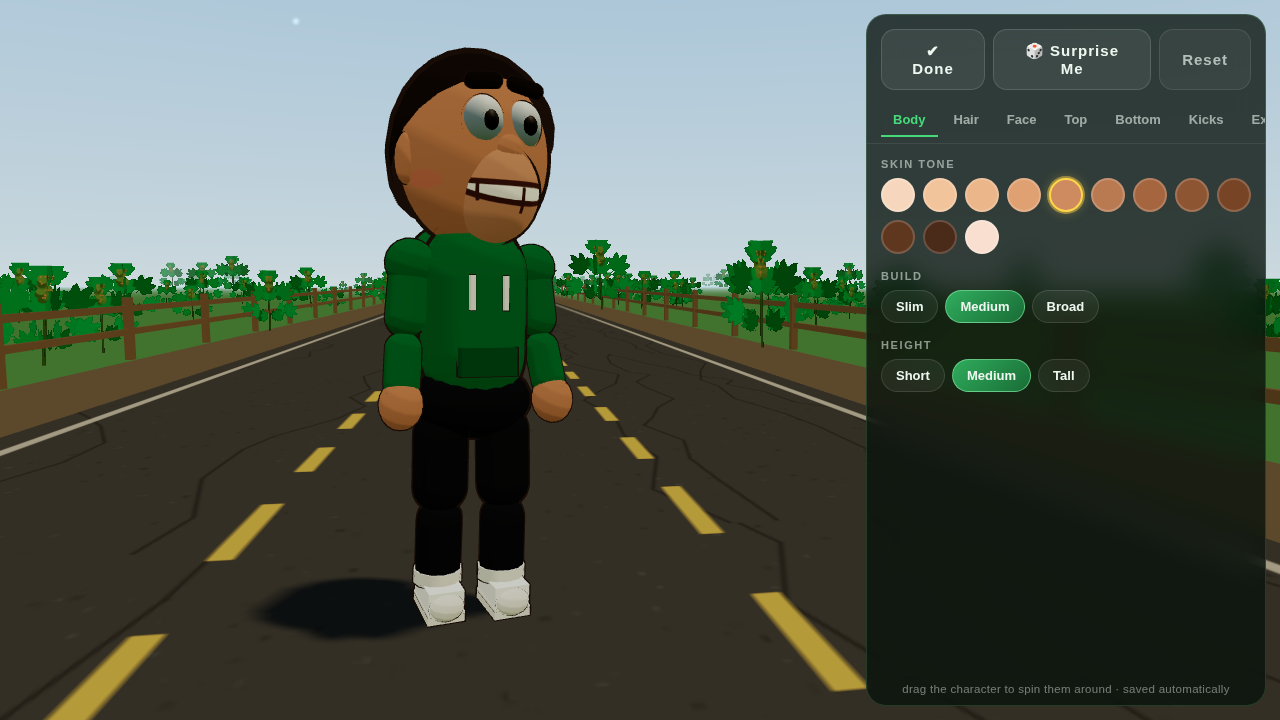
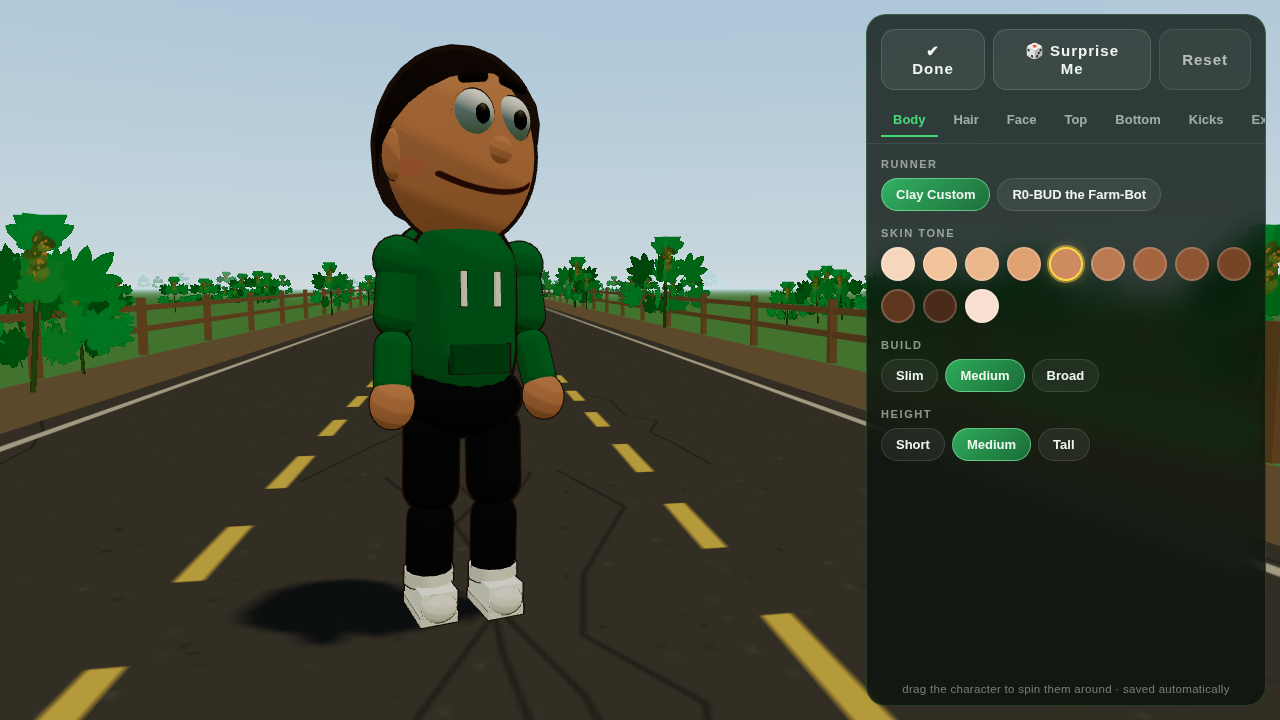
Flatten the clay face: mouth painted on the face plane, no snout
The protruding two-tone muzzle made characters read as an animal rather
than a person. The mouth (all five styles + dizzy) now paints directly
onto the head texture with normal/dizzy variants swapped in setFace;
facial hair and nose re-anchored to the flat face; blush and freckles
moved clear of the mouth; friendlier soft-brow smile as the default look.

Claude-Session: https://claude.ai/code/session_01EjCoRWgHt2VoYrPWndfxam

diff --git a/js/avatar.js b/js/avatar.js
@@ -57,10 +57,10 @@
   }
 
   /* -------------------------------------------------- head painting
-     Claymation-style: eyes and brows are 3D geometry. The head texture only
-     carries skin, cheeks and freckles; the muzzle texture carries the big
-     molded mouth. Both spheres are rotated so canvas-center faces -Z. */
-  function paintHeadTex(cfg) {
+     Claymation-style: eyes and brows are 3D geometry. The mouth is painted
+     flat on the face plane (no snout — a protruding muzzle reads as an
+     animal, not a person). Head sphere is rotated so canvas-center → -Z. */
+  function paintHeadTex(cfg, variant) {
     const S = 512;
     const { canvas, ctx } = GR.makeCanvas(S, S);
     ctx.fillStyle = cfg.skin;
@@ -70,103 +70,92 @@
       ctx.fillStyle = 'rgba(235,120,110,0.35)';
       for (const s of [-1, 1]) {
         ctx.beginPath();
-        ctx.ellipse(cx + s * 98, 308, 26, 16, 0, 0, GR.TAU);
+        ctx.ellipse(cx + s * 106, 296, 24, 15, 0, 0, GR.TAU);
         ctx.fill();
       }
     }
     if (cfg.freckles) {
       ctx.fillStyle = 'rgba(90,50,30,0.5)';
-      const spots = [[-84, 296], [-64, 308], [-98, 316], [84, 298], [66, 310], [100, 314], [-74, 322], [78, 324]];
+      const spots = [[-86, 272], [-66, 282], [-100, 288], [86, 274], [68, 284], [102, 288], [-76, 264], [78, 262]];
       for (const [dx, dy] of spots) {
         ctx.beginPath();
         ctx.arc(cx + dx, dy, 4, 0, GR.TAU);
         ctx.fill();
       }
     }
-    const tex = new THREE.CanvasTexture(canvas);
-    tex.colorSpace = THREE.SRGBColorSpace;
-    tex.anisotropy = 4;
-    return tex;
-  }
 
-  /* huge cheek-to-cheek molded mouth on the muzzle ball */
-  function paintMuzzleTex(cfg, variant) {
-    const S = 256;
-    const { canvas, ctx } = GR.makeCanvas(S, S);
-    ctx.fillStyle = shade(cfg.skin, 0.09);
-    ctx.fillRect(0, 0, S, S);
-    const cx = 128, cy = 118;
+    /* the big molded mouth, flat on the face */
+    const cy = 318;
     const lineCol = '#5a2f24';
     ctx.strokeStyle = lineCol;
     ctx.lineCap = 'round';
     const mouth = variant === 'dizzy' ? 'dizzy' : cfg.mouth;
     if (mouth === 'grin') {
-      // the trademark enormous clay grin, teeth and all
       ctx.beginPath();
-      ctx.moveTo(cx - 88, cy - 16);
-      ctx.quadraticCurveTo(cx, cy + 78, cx + 88, cy - 16);
-      ctx.quadraticCurveTo(cx, cy + 18, cx - 88, cy - 16);
+      ctx.moveTo(cx - 80, cy - 14);
+      ctx.quadraticCurveTo(cx, cy + 66, cx + 80, cy - 14);
+      ctx.quadraticCurveTo(cx, cy + 16, cx - 80, cy - 14);
       ctx.closePath();
       ctx.fillStyle = '#fdf8ee';
       ctx.fill();
-      ctx.lineWidth = 9;
+      ctx.lineWidth = 8;
       ctx.stroke();
-      // tooth seams
       ctx.lineWidth = 4;
-      for (const dx of [-44, 0, 44]) {
+      for (const dx of [-40, 0, 40]) {
         ctx.beginPath();
-        ctx.moveTo(cx + dx, cy + (dx === 0 ? 8 : -2));
-        ctx.lineTo(cx + dx, cy + (dx === 0 ? 46 : 26));
+        ctx.moveTo(cx + dx, cy + (dx === 0 ? 7 : -3));
+        ctx.lineTo(cx + dx, cy + (dx === 0 ? 40 : 22));
         ctx.stroke();
       }
     } else if (mouth === 'smile') {
-      ctx.lineWidth = 11;
+      ctx.lineWidth = 10;
       ctx.beginPath();
-      ctx.moveTo(cx - 74, cy - 8);
-      ctx.quadraticCurveTo(cx, cy + 52, cx + 74, cy - 8);
+      ctx.moveTo(cx - 66, cy - 8);
+      ctx.quadraticCurveTo(cx, cy + 44, cx + 66, cy - 8);
       ctx.stroke();
     } else if (mouth === 'smirk') {
-      ctx.lineWidth = 11;
+      ctx.lineWidth = 10;
       ctx.beginPath();
-      ctx.moveTo(cx - 40, cy + 12);
-      ctx.quadraticCurveTo(cx + 30, cy + 34, cx + 74, cy - 14);
+      ctx.moveTo(cx - 36, cy + 10);
+      ctx.quadraticCurveTo(cx + 26, cy + 30, cx + 66, cy - 12);
       ctx.stroke();
     } else if (mouth === 'open') {
       ctx.fillStyle = '#54231c';
       ctx.beginPath();
-      ctx.ellipse(cx, cy + 12, 52, 40, 0, 0, GR.TAU);
+      ctx.ellipse(cx, cy + 8, 46, 34, 0, 0, GR.TAU);
       ctx.fill();
-      ctx.lineWidth = 8;
+      ctx.lineWidth = 7;
       ctx.stroke();
       ctx.fillStyle = '#e0697a';
       ctx.beginPath();
-      ctx.ellipse(cx, cy + 32, 28, 15, 0, 0, GR.TAU);
+      ctx.ellipse(cx, cy + 26, 25, 13, 0, 0, GR.TAU);
       ctx.fill();
       ctx.fillStyle = '#fdf8ee';
-      ctx.fillRect(cx - 34, cy - 24, 68, 14);
+      ctx.fillRect(cx - 30, cy - 22, 60, 12);
     } else if (mouth === 'tongue') {
-      ctx.lineWidth = 11;
+      ctx.lineWidth = 10;
       ctx.beginPath();
-      ctx.moveTo(cx - 66, cy - 6);
-      ctx.quadraticCurveTo(cx, cy + 46, cx + 66, cy - 6);
+      ctx.moveTo(cx - 60, cy - 6);
+      ctx.quadraticCurveTo(cx, cy + 40, cx + 60, cy - 6);
       ctx.stroke();
       ctx.fillStyle = '#e0697a';
       ctx.beginPath();
-      ctx.ellipse(cx + 26, cy + 34, 22, 26, 0.25, 0, GR.TAU);
+      ctx.ellipse(cx + 24, cy + 28, 20, 24, 0.25, 0, GR.TAU);
       ctx.fill();
       ctx.strokeStyle = '#b04a5c';
       ctx.lineWidth = 4;
       ctx.beginPath();
-      ctx.moveTo(cx + 22, cy + 18);
-      ctx.lineTo(cx + 32, cy + 50);
+      ctx.moveTo(cx + 20, cy + 14);
+      ctx.lineTo(cx + 30, cy + 44);
       ctx.stroke();
     } else {
       // dizzy: wobbly little 'o'
-      ctx.lineWidth = 9;
+      ctx.lineWidth = 8;
       ctx.beginPath();
-      ctx.ellipse(cx, cy + 10, 22, 28, 0.15, 0, GR.TAU);
+      ctx.ellipse(cx, cy + 8, 20, 25, 0.15, 0, GR.TAU);
       ctx.stroke();
     }
+
     const tex = new THREE.CanvasTexture(canvas);
     tex.colorSpace = THREE.SRGBColorSpace;
     tex.anisotropy = 4;
@@ -574,21 +563,14 @@
     neck.add(headGrp);
 
     // no bump on the face — it fights the toon steps and looks patchy
-    const headMat = track(GR.toonMat({ map: track(paintHeadTex(cfg)) }));
+    const headTex = {
+      normal: track(paintHeadTex(cfg, 'normal')),
+      dizzy: track(paintHeadTex(cfg, 'dizzy')),
+    };
+    const headMat = track(GR.toonMat({ map: headTex.normal }));
     const head = mesh(track(new THREE.SphereGeometry(R, 32, 24)), headMat, 0, 0, 0);
     head.rotation.y = Math.PI / 2; // texture center → -Z
     headGrp.add(head);
-
-    /* muzzle — the protruding lower-face mass that carries the big mouth */
-    const muzzleTex = {
-      normal: track(paintMuzzleTex(cfg, 'normal')),
-      dizzy: track(paintMuzzleTex(cfg, 'dizzy')),
-    };
-    const muzzleMat = track(GR.toonMat({ map: muzzleTex.normal }));
-    const muzzle = mesh(track(new THREE.SphereGeometry(R * 0.62, 24, 18)), muzzleMat, 0, -R * 0.42, -R * 0.6);
-    muzzle.rotation.y = Math.PI / 2;
-    muzzle.scale.set(1.28, 0.85, 0.8);
-    headGrp.add(muzzle);
 
     /* googly clay eyes: big close-set white balls, proud of the face */
     const eyeWhiteMat = track(new THREE.MeshStandardMaterial({ color: 0xfdfaf2, roughness: 0.55 }));
@@ -640,7 +622,7 @@
       ear.scale.set(0.5, 1.05, 0.85);
       headGrp.add(ear);
     }
-    const nose = mesh(track(new THREE.SphereGeometry(R * 0.17, 14, 12)), skinMat, 0, R * 0.02, -R * 1.0);
+    const nose = mesh(track(new THREE.SphereGeometry(R * 0.16, 14, 12)), skinMat, 0, -R * 0.05, -R * 1.0);
     nose.scale.set(1, 0.9, 0.95);
     headGrp.add(nose);
 
@@ -648,21 +630,21 @@
     const fhMat = track(clayMat(cfg.hairColor));
     if (cfg.facialHair === 'mustache') {
       for (const sx of [-1, 1]) {
-        const mo = mesh(track(new THREE.SphereGeometry(R * 0.24, 12, 8)), fhMat, sx * R * 0.22, -R * 0.2, -R * 1.04);
-        mo.scale.set(1.25, 0.42, 0.45);
+        const mo = mesh(track(new THREE.SphereGeometry(R * 0.22, 12, 8)), fhMat, sx * R * 0.2, -R * 0.22, -R * 0.94);
+        mo.scale.set(1.25, 0.4, 0.42);
         mo.rotation.z = sx * -0.25;
         headGrp.add(mo);
       }
     } else if (cfg.facialHair === 'goatee') {
-      const gt = mesh(track(new THREE.SphereGeometry(R * 0.28, 12, 8)), fhMat, 0, -R * 0.86, -R * 0.66);
-      gt.scale.set(0.95, 0.9, 0.6);
+      const gt = mesh(track(new THREE.SphereGeometry(R * 0.26, 12, 8)), fhMat, 0, -R * 0.7, -R * 0.66);
+      gt.scale.set(0.95, 0.85, 0.55);
       headGrp.add(gt);
     } else if (cfg.facialHair === 'beard') {
-      const chin = mesh(track(new THREE.SphereGeometry(R * 0.46, 14, 10)), fhMat, 0, -R * 0.84, -R * 0.36);
-      chin.scale.set(1.4, 0.75, 0.95);
+      const chin = mesh(track(new THREE.SphereGeometry(R * 0.44, 14, 10)), fhMat, 0, -R * 0.7, -R * 0.32);
+      chin.scale.set(1.35, 0.7, 0.95);
       headGrp.add(chin);
       for (const sx of [-1, 1]) {
-        const jaw = mesh(track(new THREE.SphereGeometry(R * 0.32, 12, 8)), fhMat, sx * R * 0.68, -R * 0.42, -R * 0.32);
+        const jaw = mesh(track(new THREE.SphereGeometry(R * 0.3, 12, 8)), fhMat, sx * R * 0.66, -R * 0.36, -R * 0.34);
         jaw.scale.set(0.6, 1.0, 0.95);
         headGrp.add(jaw);
       }
@@ -719,7 +701,7 @@
       setFace(name) {
         if (this._face === name) return;
         this._face = name;
-        muzzleMat.map = name === 'dizzy' ? muzzleTex.dizzy : muzzleTex.normal;
+        headMat.map = name === 'dizzy' ? headTex.dizzy : headTex.normal;
         for (let i = 0; i < face.eyes.length; i++) {
           const e = face.eyes[i];
           const p = face.pupils[i];

diff --git a/js/config.js b/js/config.js
@@ -309,8 +309,8 @@
     hairColor: '#2e2118',
     eyeStyle: 'round',
     eyeColor: '#3a2a1c',
-    brow: 'thick',
-    mouth: 'grin',
+    brow: 'soft',
+    mouth: 'smile',
     facialHair: 'none',
     freckles: false,
     blush: true,
